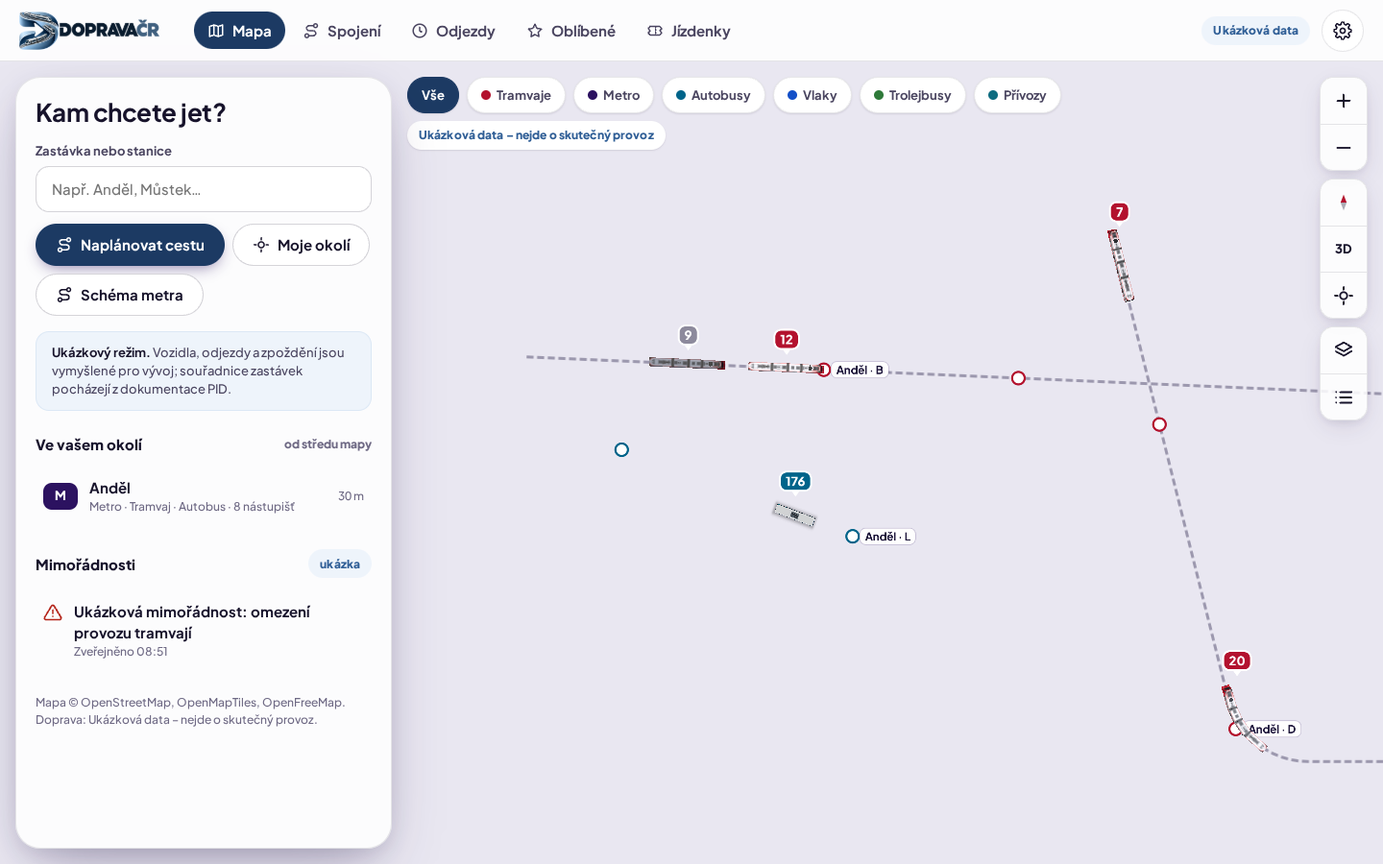
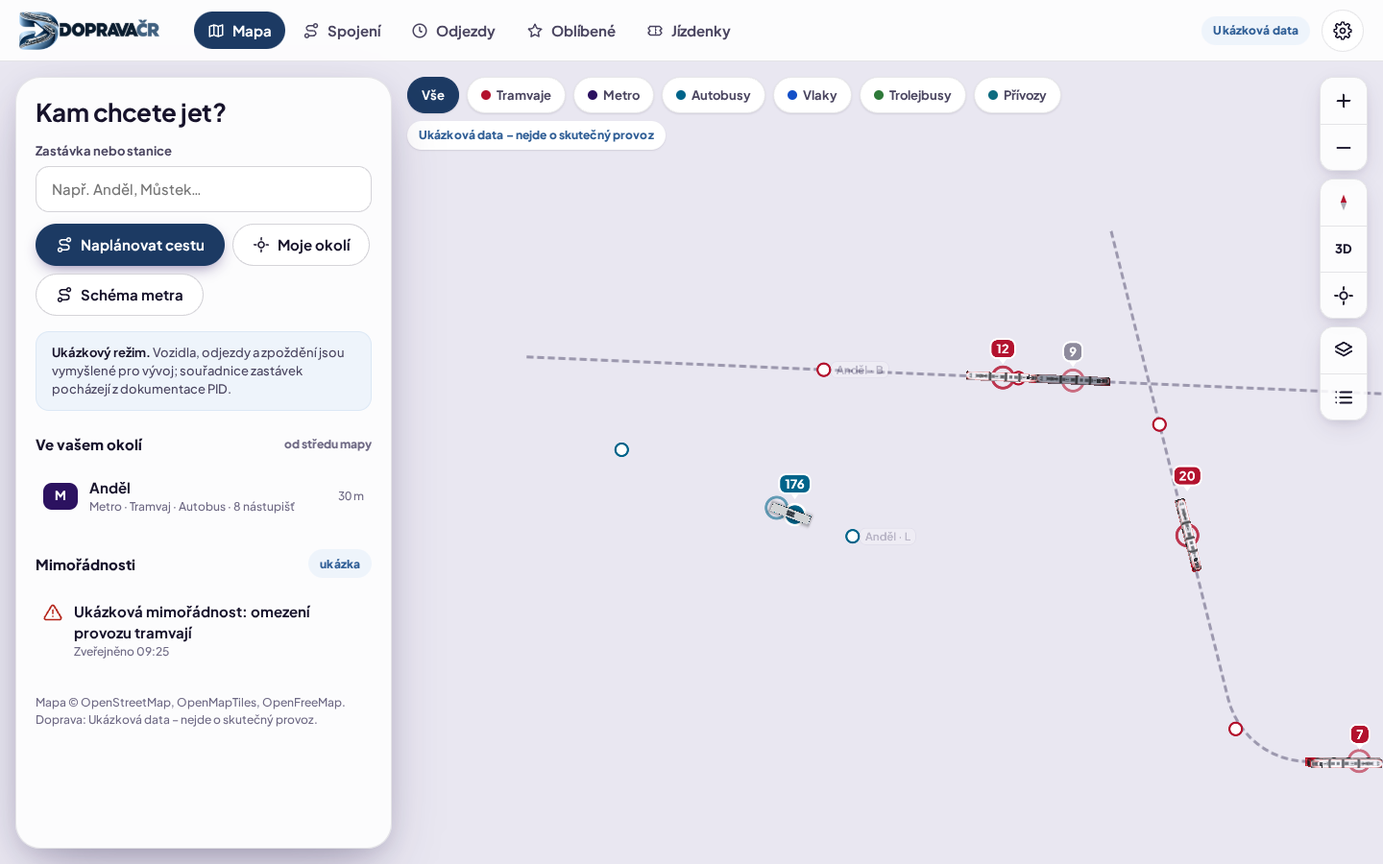
v0.7.0

diff --git a/src/map/controller.ts b/src/map/controller.ts
@@ -5,7 +5,8 @@ import { MODES, type Mode, type StopPoint, type VehicleState } from '@/domain/mo
 import { MODE_COLOR } from '@/domain/modes';
 import { metersPerPixel } from '@/domain/geo';
 import { manifest, mapAssetFor, spriteSizeStops, type VehicleAsset } from './assets';
-import { badgeImage, clusterImage, stopLabelImage } from './images';
+import { badgeImage, clusterImage, donutImage, etaImage, headingImage, pillImage, stopLabelImage } from './images';
+import { describeDelay } from '@/domain/delay';
 import { TrackFollower } from './follower';
 import { TrackNetwork, type TrackKind } from './tracks';
 import { buildExtrusions, buildPieces, DEFAULT_SHAPES, type VehicleShape } from './vehicle3d';
@@ -27,7 +28,9 @@ export interface MapEvents {
   onRender(ok: boolean): void;
 }
 
-const LIVE = 'dop-live', PIECES = 'dop-pieces', V3D = 'dop-3d', OV = 'dop-overview', STOPS = 'dop-stops', ME = 'dop-me';
+const LIVE = 'dop-live', PIECES = 'dop-pieces', V3D = 'dop-3d', OV = 'dop-overview', STOPS = 'dop-stops', ME = 'dop-me', PULSE = 'dop-pulse', TRAIL = 'dop-trail', ROUTE = 'dop-route', ROUTE_STOPS = 'dop-route-stops';
+const CLUSTER_MODES: Mode[] = ['tram', 'bus', 'metro', 'trolleybus', 'train', 'ferry', 'funicular', 'other'];
+const DASH_STEPS: number[][] = [[0, 4, 3], [0.5, 4, 2.5], [1, 4, 2], [1.5, 4, 1.5], [2, 4, 1], [2.5, 4, 0.5], [3, 4, 0], [0, 0.5, 3, 3.5], [0, 1, 3, 3], [0, 1.5, 3, 2.5], [0, 2, 3, 2], [0, 2.5, 3, 1.5], [0, 3, 3, 1], [0, 3.5, 3, 0.5]];
 const SPRITE_ZOOM = 15.5, LIVE_ZOOM = 12.5, MODEL_ZOOM = 15, PITCH_3D = 20, DETAIL_3D_MAX = 90;
 const EMPTY: FeatureCollection = { type: 'FeatureCollection', features: [] };
 export const FALLBACK_STYLE_URL = '/map/offline-style.json';
@@ -58,6 +61,11 @@ export class MapController {
   private raf = 0;
   private lastPush = 0;
   private lastLiveData = 0;
+  private pulsesShown = false;
+  private lastMeasured = new Map<string, string | null>();
+  private pulses = new Map<string, number>();
+  private history = new Map<string, { t: number; lng: number; lat: number }[]>();
+  private route: { id: string; timer: ReturnType<typeof setInterval> | null; step: number; lastStep: number; hasData: boolean } | null = null;
   private warnedFrame = false;
   private liveDirty = true;
   private last3d = 0;
@@ -158,8 +166,9 @@ export class MapController {
 
   private addLayers() {
     const m = this.map;
-    for (const [id, cluster] of [[STOPS, false], [OV, true], [LIVE, false], [PIECES, false], [V3D, false], [ME, false]] as const) {
-      if (!m.getSource(id)) m.addSource(id, cluster ? { type: 'geojson', data: EMPTY, cluster: true, clusterMaxZoom: 12, clusterRadius: 46 } : { type: 'geojson', data: EMPTY });
+    for (const [id, cluster] of [[STOPS, false], [OV, true], [LIVE, false], [PIECES, false], [V3D, false], [ME, false], [PULSE, false], [TRAIL, false], [ROUTE, false], [ROUTE_STOPS, false]] as const) {
+      if (!m.getSource(id)) m.addSource(id, cluster ? { type: 'geojson', data: EMPTY, cluster: true, clusterMaxZoom: 12, clusterRadius: 52,
+        clusterProperties: Object.fromEntries(CLUSTER_MODES.map((md) => [md, ['+', ['case', ['==', ['get', 'mode'], md], 1, 0]]])) } : { type: 'geojson', data: EMPTY });
     }
     const layers: LayerSpecification[] = [
       { id: 'dop-stops-dot', type: 'circle', source: STOPS, minzoom: 14.5, layout: { visibility: this.settings.showStops ? 'visible' : 'none' },
@@ -169,11 +178,21 @@ export class MapController {
       { id: 'dop-me', type: 'circle', source: ME, paint: { 'circle-radius': 7, 'circle-color': '#2F7BFF', 'circle-stroke-color': '#FFFFFF', 'circle-stroke-width': 3 } },
       { id: 'dop-ov-dot', type: 'circle', source: OV, maxzoom: LIVE_ZOOM, filter: ['!', ['has', 'point_count']],
         paint: { 'circle-radius': ['interpolate', ['linear'], ['zoom'], 8, 2.5, 12.5, 5], 'circle-color': modeColor, 'circle-stroke-color': '#FFFFFF', 'circle-stroke-width': 1.2, 'circle-opacity': freshOpacity, 'circle-stroke-opacity': freshOpacity } },
-      { id: 'dop-ov-cluster', type: 'symbol', source: OV, maxzoom: LIVE_ZOOM, filter: ['has', 'point_count'], layout: { 'icon-image': ['concat', 'c|', ['to-string', ['get', 'point_count']]], 'icon-allow-overlap': true } },
+      { id: 'dop-ov-cluster', type: 'symbol', source: OV, maxzoom: LIVE_ZOOM, filter: ['has', 'point_count'], layout: { 'icon-image': ['concat', 'd', ...CLUSTER_MODES.flatMap((md) => ['|', ['to-string', ['get', md]]])] as unknown as ExpressionSpecification, 'icon-allow-overlap': true } },
       { id: 'dop-halo', type: 'circle', source: LIVE, minzoom: LIVE_ZOOM, filter: ['==', ['get', 'id'], ''],
         paint: { 'circle-radius': ['interpolate', ['exponential', 2], ['zoom'], 12.5, 14, 16, 26, 19, 110, 21, 380], 'circle-color': '#2F6FB5', 'circle-opacity': 0.14, 'circle-stroke-color': '#2F6FB5', 'circle-stroke-width': 2, 'circle-stroke-opacity': 0.55, 'circle-pitch-alignment': 'map' } },
-      { id: 'dop-dot', type: 'circle', source: LIVE, minzoom: LIVE_ZOOM, maxzoom: SPRITE_ZOOM,
-        paint: { 'circle-radius': ['interpolate', ['linear'], ['zoom'], 12.5, 5, 15.5, 7.5], 'circle-color': modeColor, 'circle-stroke-color': '#FFFFFF', 'circle-stroke-width': 1.6, 'circle-opacity': freshOpacity, 'circle-stroke-opacity': freshOpacity } },
+      { id: ROUTE, type: 'line', source: ROUTE, layout: { 'line-cap': 'round', 'line-join': 'round' }, paint: { 'line-color': ['get', 'color'], 'line-width': ['interpolate', ['linear'], ['zoom'], 12, 5, 17, 10], 'line-opacity': 0.28 } },
+      { id: 'dop-route-flow', type: 'line', source: ROUTE, layout: { 'line-cap': 'butt', 'line-join': 'round' }, paint: { 'line-color': ['get', 'color'], 'line-width': ['interpolate', ['linear'], ['zoom'], 12, 2.5, 17, 4], 'line-opacity': 0.9, 'line-dasharray': [0, 4, 3] } },
+      { id: 'dop-trail', type: 'line', source: TRAIL, minzoom: 14.6, layout: { 'line-cap': 'round' }, paint: { 'line-color': ['get', 'color'], 'line-opacity': ['get', 'a'], 'line-width': ['get', 'w'] } },
+      { id: 'dop-pulse', type: 'circle', source: PULSE, minzoom: LIVE_ZOOM, paint: { 'circle-radius': ['get', 'r'], 'circle-color': 'rgba(0,0,0,0)', 'circle-stroke-color': ['get', 'color'], 'circle-stroke-width': ['get', 'sw'], 'circle-stroke-opacity': ['get', 'a'], 'circle-pitch-alignment': 'map' } },
+      { id: 'dop-dir', type: 'symbol', source: LIVE, minzoom: LIVE_ZOOM, maxzoom: SPRITE_ZOOM, filter: ['has', 'brg'],
+        layout: { 'icon-image': ['concat', 'h|', ['get', 'mode']], 'icon-size': ['interpolate', ['linear'], ['zoom'], 12.5, 0.7, 15.5, 0.9], 'icon-rotate': ['get', 'brg'], 'icon-rotation-alignment': 'map', 'icon-pitch-alignment': 'map', 'icon-allow-overlap': true, 'icon-ignore-placement': true },
+        paint: { 'icon-opacity': freshOpacity } },
+      { id: 'dop-dot', type: 'symbol', source: LIVE, minzoom: LIVE_ZOOM, maxzoom: SPRITE_ZOOM,
+        layout: { 'icon-image': ['get', 'pill'], 'icon-size': ['interpolate', ['linear'], ['zoom'], 12.5, 0.72, 14, 0.9, 15.5, 1], 'icon-allow-overlap': true, 'icon-ignore-placement': true,
+          'icon-rotation-alignment': 'viewport', 'icon-pitch-alignment': 'viewport', 'symbol-sort-key': ['get', 'sort'] },
+        paint: { 'icon-opacity': freshOpacity } },
+      { id: ROUTE_STOPS, type: 'symbol', source: ROUTE_STOPS, minzoom: 13.5, layout: { 'icon-image': ['get', 'chip'], 'icon-size': 1, 'icon-anchor': 'left', 'icon-offset': [14, 0], 'icon-allow-overlap': true, 'icon-ignore-placement': true } },
       { id: 'dop-marker', type: 'circle', source: LIVE, minzoom: SPRITE_ZOOM, filter: ['==', ['get', 'sprite'], false],
         paint: { 'circle-radius': ['interpolate', ['linear'], ['zoom'], 15.5, 8, 19, 12], 'circle-color': modeColor, 'circle-stroke-color': '#FFFFFF', 'circle-stroke-width': 2.5, 'circle-opacity': freshOpacity, 'circle-pitch-alignment': 'map' } },
       { id: 'dop-pieces', type: 'symbol', source: PIECES, minzoom: SPRITE_ZOOM,
@@ -182,7 +201,7 @@ export class MapController {
         paint: { 'icon-opacity': freshOpacity } },
       { id: 'dop-3d', type: 'fill-extrusion', source: V3D, minzoom: MODEL_ZOOM, layout: { visibility: 'none' },
         paint: { 'fill-extrusion-color': ['get', 'color'], 'fill-extrusion-base': ['get', 'base'], 'fill-extrusion-height': ['get', 'height'], 'fill-extrusion-opacity': 1, 'fill-extrusion-vertical-gradient': true } },
-      { id: 'dop-badge', type: 'symbol', source: LIVE, minzoom: 13.5,
+      { id: 'dop-badge', type: 'symbol', source: LIVE, minzoom: SPRITE_ZOOM,
         layout: { 'icon-image': ['get', 'badge'], 'icon-anchor': 'bottom', 'icon-offset': ['get', 'off'], 'icon-allow-overlap': true, 'icon-ignore-placement': true,
           'icon-rotation-alignment': 'viewport', 'icon-pitch-alignment': 'viewport', 'symbol-sort-key': ['get', 'sort'] } },
     ];
@@ -195,6 +214,10 @@ export class MapController {
     try {
       const [kind, a, b, c] = id.split('|');
       if (kind === 'b' && a && b !== undefined) this.map.addImage(id, badgeImage(b, a as Mode, (c as 'live' | 'stale' | 'selected') ?? 'live'), { pixelRatio: 2 });
+      else if (kind === 'p' && a && b !== undefined) { const [, , , tone, st] = id.split('|'); this.map.addImage(id, pillImage(b, a as Mode, tone ?? 'unknown', (st as 'live' | 'stale' | 'selected') ?? 'live'), { pixelRatio: 2 }); }
+      else if (kind === 'h' && a) this.map.addImage(id, headingImage(a as Mode), { pixelRatio: 1 });
+      else if (kind === 'd') { const parts = id.split('|').slice(1).map(Number); this.map.addImage(id, donutImage(Object.fromEntries(CLUSTER_MODES.map((md, i) => [md, parts[i] ?? 0]))), { pixelRatio: 2 }); }
+      else if (kind === 'e' && a) { const [, name, eta, color] = id.split('|'); this.map.addImage(id, etaImage(name ?? '', eta ?? '', color ?? '#2F6FB5'), { pixelRatio: 2 }); }
       else if (kind === 'c' && a) this.map.addImage(id, clusterImage(Number(a)), { pixelRatio: 2 });
       else if (kind === 's' && a) this.map.addImage(id, stopLabelImage(a, b || null), { pixelRatio: 2 });
     } catch { /* obrázek se nepodařilo vytvořit – vrstva zůstane bez štítku */ }
@@ -301,6 +324,13 @@ export class MapController {
   /** Nová dávka dat ze serveru: oddělená od animace, React se nepřekresluje. */
   ingest(list: VehicleState[], receivedAt: number) {
     this.vehicles = new Map(list.map((v) => [v.id, v])); this.liveDirty = true;
+    const nowP = Date.now();
+    for (const v of list) {
+      const prev = this.lastMeasured.get(v.id);
+      if (prev !== undefined && prev !== v.measuredAt) this.pulses.set(v.id, nowP);
+      this.lastMeasured.set(v.id, v.measuredAt);
+    }
+    if (this.lastMeasured.size > list.length * 2 + 200) { const keep = new Set<string>(list.map((v) => v.id)); for (const k of [...this.lastMeasured.keys()]) if (!keep.has(k)) { this.lastMeasured.delete(k); this.history.delete(k); } }
     this.follower.update(list, receivedAt, Date.now(), this.getNet);
     if (this.selectedId && !this.vehicles.has(this.selectedId)) { this.selectedId = null; this.applySelectionFilter(); this.setFollow(false); this.events.onSelect(null, 'expired'); }
     this.pushOverview();
@@ -334,7 +364,11 @@ export class MapController {
     if (!this.ready || this.destroyed) return;
     const now = Date.now();
     const z = this.map.getZoom();
-    const animating = this.follower.animator.isAnimating(now) || this.follower.isMoving(now);
+    const animating = this.follower.animator.isAnimating(now) || this.follower.isMoving(now) || this.pulses.size > 0 || this.route?.hasData === true;
+    if (this.route?.hasData && now - this.route.lastStep > 70 && this.map.getLayer('dop-route-flow')) {
+      this.route.step = (this.route.step + 1) % DASH_STEPS.length; this.route.lastStep = now;
+      this.map.setPaintProperty('dop-route-flow', 'line-dasharray', DASH_STEPS[this.route.step]);
+    }
     const minGap = this.settings.reducedMotion ? 1000 : 33;
     if (z >= LIVE_ZOOM - 0.3 && now - this.lastPush >= minGap) { this.pushLive(now); this.lastPush = now; }
     const following = this.follow && this.selectedId ? this.followStep(now) : false;
@@ -351,6 +385,7 @@ export class MapController {
     const style = this.settings.vehicleStyle;
     const want3d = style === 'sprites' && this.pitchedMode && zoom >= MODEL_ZOOM && now - this.last3d >= (this.settings.reducedMotion ? 1000 : 90);
     const models: ModelVehicle[] = [];
+    const trails: Feature[] = [], pulses: Feature[] = [];
     const arts: ArticulatedVehicle[] = [];
     const center = this.map.getCenter();
     const live: Feature[] = [], pieces: Feature[] = [], solids: Feature[] = [];
@@ -396,15 +431,35 @@ export class MapController {
         off = (Math.abs(Math.cos(th)) * lenPx * pitchK + Math.abs(Math.sin(th)) * widPx) / 2 + 7 + (model || this.pitchedMode ? ((H / mpp) * f) * Math.sin(pitch * D2R) : 0);
         off = Math.min(off, 320);
       }
+      const hist = this.history.get(id) ?? [];
+      const lastH = hist[hist.length - 1];
+      if (!lastH || (now - lastH.t > 110 && (Math.abs(lastH.lng - mid.lng) + Math.abs(lastH.lat - mid.lat)) > 4e-6)) { hist.push({ t: now, lng: mid.lng, lat: mid.lat }); while (hist.length > 26 || (hist[0] && now - hist[0].t > 3200)) hist.shift(); this.history.set(id, hist); }
+      if (zoom >= 14.6 && hist.length > 2 && !this.settings.reducedMotion) for (let i = 1; i < hist.length; i++) {
+        const k = i / hist.length;
+        trails.push({ type: 'Feature', geometry: { type: 'LineString', coordinates: [[hist[i - 1]!.lng, hist[i - 1]!.lat], [hist[i]!.lng, hist[i]!.lat]] }, properties: { color: MODE_COLOR[v.route.mode], a: Math.round(k * 55) / 100 * (stale ? 0.4 : 1), w: 1 + k * 5 } });
+      }
+      const pt = this.pulses.get(id);
+      if (pt !== undefined && !this.settings.reducedMotion) {
+        const k = (now - pt) / 1400;
+        if (k >= 1) this.pulses.delete(id);
+        else pulses.push({ type: 'Feature', geometry: { type: 'Point', coordinates: [mid.lng, mid.lat] }, properties: { r: 9 + k * 26, a: Math.round((1 - k) * 60) / 100, sw: 2.5 * (1 - k) + 0.5, color: MODE_COLOR[v.route.mode] } });
+      }
       live.push({ type: 'Feature', geometry: { type: 'Point', coordinates: [mid.lng, mid.lat] }, properties: {
         id, mode: v.route.mode, sprite: sprite || model, has3d: style === 'sprites' && HAS_3D.has(v.route.mode) && hasBody, fresh: stale ? 'stale' : 'live',
         badge: `b|${v.route.mode}|${safe(v.route.shortName)}|${state}`, sort: sel ? 1000 : stale ? 1 : 10, off: [0, -Math.round(off)],
+        pill: `p|${v.route.mode}|${safe(v.route.shortName)}|${stale ? 'unknown' : describeDelay(v.delay).tone === 'late' && v.delay.kind === 'known' && v.delay.seconds < 180 ? 'warn' : describeDelay(v.delay).tone}|${state}`,
+        ...(s.bearing !== null ? { brg: Math.round(s.bearing) } : {}),
       } });
       if (sprite && asset && !this.pitchedMode && zoom >= SPRITE_ZOOM) pieces.push(...buildPieces(s.body, shape, asset.id, { fresh: stale ? 'stale' : 'live', sort: sel ? 1000 : 10 }));
       if (want3d && hasBody && HAS_3D.has(v.route.mode)) solids.push(...buildExtrusions(s.body, shape));
     } catch (e) { if (!this.warnedFrame) { this.warnedFrame = true; console.warn('Vozidlo nelze vykreslit', id, e); } } });
     // štítky a body: nejvýš 10× za sekundu (3D modely se posouvají v každém snímku) – méně práce pro mapu
-    if (now - this.lastLiveData >= 100 || this.liveDirty) { (this.map.getSource(LIVE) as GeoJSONSource | undefined)?.setData({ type: 'FeatureCollection', features: live }); this.lastLiveData = now; this.liveDirty = false; }
+    if (now - this.lastLiveData >= 100 || this.liveDirty) {
+      (this.map.getSource(LIVE) as GeoJSONSource | undefined)?.setData({ type: 'FeatureCollection', features: live });
+      (this.map.getSource(TRAIL) as GeoJSONSource | undefined)?.setData({ type: 'FeatureCollection', features: trails });
+      this.lastLiveData = now; this.liveDirty = false;
+    }
+    if (pulses.length || this.pulsesShown) { (this.map.getSource(PULSE) as GeoJSONSource | undefined)?.setData({ type: 'FeatureCollection', features: pulses }); this.pulsesShown = pulses.length > 0; }
     this.modelLayer.setVehicles(style === 'models' ? models : []);
     this.artLayer.setVehicles(style === 'models' ? arts : []);
     if (!this.pitchedMode || zoom < SPRITE_ZOOM) (this.map.getSource(PIECES) as GeoJSONSource | undefined)?.setData({ type: 'FeatureCollection', features: pieces });
@@ -460,7 +515,45 @@ export class MapController {
     if (this.map.getLayer('dop-halo')) this.map.setFilter('dop-halo', ['==', ['get', 'id'], this.selectedId ?? ''] as FilterSpecification);
   }
 
+  /** Trasa vybraného vozu s tekoucí čárou a odpočty do dalších zastávek (z průběhu spoje, obnova po 30 s). */
+  private async loadRoute(id: string) {
+    try {
+      const res = await fetch(`/api/trip?vehicle=${encodeURIComponent(id)}`);
+      const body = res.ok ? (await res.json()) as { data: { mode: Mode; lastStopSeq: number | null; delay: { kind: string; seconds?: number }; stops: { seq: number; name: string; lat: number; lon: number; arrival: string | null; arrivalRt: string | null }[]; shape: [number, number][] } | null } : null;
+      if (!this.route || this.route.id !== id || !body?.data) return;
+      const d = body.data, color = MODE_COLOR[d.mode];
+      const coords = d.shape.length >= 2 ? d.shape : d.stops.map((st) => [st.lon, st.lat] as [number, number]);
+      (this.map.getSource(ROUTE) as GeoJSONSource | undefined)?.setData({ type: 'FeatureCollection', features: [{ type: 'Feature', geometry: { type: 'LineString', coordinates: coords }, properties: { color } }] });
+      const now = Date.now(), delay = d.delay.kind === 'known' ? (d.delay.seconds ?? 0) * 1000 : 0;
+      const when = (raw: string | null, rt: boolean): number | null => {
+        if (!raw) return null;
+        if (/^\d{1,2}:\d{2}(:\d{2})?$/.test(raw)) { const [h, m, sec] = raw.split(':').map(Number); const t = new Date(); t.setHours(h ?? 0, m ?? 0, sec ?? 0, 0); return t.getTime() + (rt ? 0 : delay); }
+        const t = Date.parse(raw); return Number.isFinite(t) ? t + (rt ? 0 : delay) : null;
+      };
+      const chips = d.stops.filter((st) => d.lastStopSeq === null || st.seq > d.lastStopSeq).slice(0, 8).flatMap((st) => {
+        const t = when(st.arrivalRt, true) ?? when(st.arrival, false);
+        if (t === null) return [];
+        const min = Math.round((t - now) / 60_000);
+        const eta = min <= 0 ? '< 1 min' : `${min} min`;
+        return [{ type: 'Feature' as const, geometry: { type: 'Point' as const, coordinates: [st.lon, st.lat] }, properties: { chip: `e|${st.name.replace(/\|/g, '/')}|${eta}|${color}` } }];
+      });
+      (this.map.getSource(ROUTE_STOPS) as GeoJSONSource | undefined)?.setData({ type: 'FeatureCollection', features: chips });
+      this.route.hasData = true;
+      this.kick();
+    } catch { /* průběh spoje je doplněk – bez něj výběr funguje dál */ }
+  }
+
+  private clearRoute() {
+    if (this.route?.timer) clearInterval(this.route.timer);
+    this.route = null;
+    for (const src of [ROUTE, ROUTE_STOPS]) (this.map.getSource(src) as GeoJSONSource | undefined)?.setData(EMPTY);
+  }
+
   select(id: string | null, opts: { fly?: boolean; follow?: boolean } = {}) {
+    if (this.route?.id !== id) {
+      this.clearRoute();
+      if (id && this.ready) { this.route = { id, timer: setInterval(() => void this.loadRoute(id), 30_000), step: 0, lastStep: 0, hasData: false }; void this.loadRoute(id); }
+    }
     this.selectedId = id;
     this.liveDirty = true;
     this.applySelectionFilter();
@@ -673,6 +766,7 @@ export class MapController {
 
   destroy() {
     this.destroyed = true;
+    if (this.route?.timer) clearInterval(this.route.timer);
     if (this.raf) cancelAnimationFrame(this.raf);
     if (this.stopsTimer) clearTimeout(this.stopsTimer);
     if (this.loadTimer) clearTimeout(this.loadTimer);

diff --git a/src/map/images.ts b/src/map/images.ts
@@ -58,3 +58,63 @@ export function stopLabelImage(name: string, platform: string | null): RasterIma
   ctx.fillStyle = '#1A1238'; ctx.font = `700 ${fontPx}px ${FONT}`; ctx.textBaseline = 'middle'; ctx.fillText(text, padX, h / 2 + s);
   return read(ctx, w, h);
 }
+
+/** Barva kroužku zpoždění: včas zelená, mírné oranžová, velké červená, neznámé šedá. */
+export const TONE_COLOR: Record<string, string> = { ok: '#2F9E58', early: '#2F6FB5', warn: '#E3A21A', late: '#D33A2C', unknown: '#9A98A6' };
+
+/** Pilulka s číslem linky a kroužkem zpoždění (od přiblížení 12,5 místo teček). */
+export function pillImage(line: string, mode: Mode, tone: string, state: 'live' | 'stale' | 'selected'): RasterImage {
+  const s = 2, fontPx = 12.5 * s, h = 22 * s, ring = 3 * s, pad = 8 * s;
+  const { ctx: m } = canvas(4, 4);
+  m.font = `800 ${fontPx}px ${FONT}`;
+  const tw = Math.ceil(m.measureText(line).width);
+  const w = Math.max(h, tw + pad * 2), W = w + ring * 2 + 2 * s, H = h + ring * 2 + 2 * s;
+  const { ctx } = canvas(W, H);
+  roundRect(ctx, s, s, W - 2 * s, H - 2 * s, (H - 2 * s) / 2);
+  ctx.fillStyle = state === 'stale' ? '#B9B7C4' : TONE_COLOR[tone] ?? TONE_COLOR.unknown!; ctx.fill();
+  roundRect(ctx, s + ring, s + ring, w, h, h / 2);
+  ctx.fillStyle = state === 'stale' ? '#8D8A9C' : MODE_COLOR[mode]; ctx.fill();
+  ctx.lineWidth = 1.6 * s; ctx.strokeStyle = state === 'selected' ? '#0F2341' : '#FFFFFF'; ctx.stroke();
+  ctx.fillStyle = '#FFFFFF'; ctx.font = `800 ${fontPx}px ${FONT}`; ctx.textAlign = 'center'; ctx.textBaseline = 'middle';
+  ctx.fillText(line, W / 2, H / 2 + 0.8 * s);
+  return read(ctx, W, H);
+}
+
+/** Klín směru jízdy (otáčí se podle kurzu, pilulka zůstává vodorovně). Čtverec 64 px, klín nahoře. */
+export function headingImage(mode: Mode): RasterImage {
+  const d = 64;
+  const { ctx } = canvas(d, d);
+  ctx.beginPath(); ctx.moveTo(d / 2, 1); ctx.lineTo(d / 2 + 9, 15); ctx.lineTo(d / 2 - 9, 15); ctx.closePath();
+  ctx.fillStyle = MODE_COLOR[mode]; ctx.fill(); ctx.lineWidth = 2; ctx.strokeStyle = '#FFFFFF'; ctx.stroke();
+  return read(ctx, d, d);
+}
+
+/** Shluk při oddálení: prstenec rozdělený podle druhů dopravy a počet uprostřed. */
+export function donutImage(counts: Partial<Record<Mode, number>>): RasterImage {
+  const total = Object.values(counts).reduce((a, b) => a + (b ?? 0), 0);
+  const s = 2, d = (total >= 100 ? 50 : total >= 10 ? 44 : 38) * s, r = d / 2 - 5 * s;
+  const { ctx } = canvas(d, d);
+  ctx.beginPath(); ctx.arc(d / 2, d / 2, d / 2 - 1 * s, 0, Math.PI * 2); ctx.fillStyle = '#FFFFFF'; ctx.fill();
+  let a0 = -Math.PI / 2;
+  const entries = Object.entries(counts).filter(([, n]) => (n ?? 0) > 0) as [Mode, number][];
+  for (const [mode, n] of entries) {
+    const a1 = a0 + (n / Math.max(1, total)) * Math.PI * 2;
+    ctx.beginPath(); ctx.arc(d / 2, d / 2, r, a0 + (entries.length > 1 ? 0.07 : 0), a1 - (entries.length > 1 ? 0.07 : 0));
+    ctx.strokeStyle = MODE_COLOR[mode]; ctx.lineWidth = 5 * s; ctx.lineCap = 'round'; ctx.stroke(); a0 = a1;
+  }
+  ctx.fillStyle = '#0F2341'; ctx.font = `800 ${(total >= 100 ? 13 : 14) * s}px ${FONT}`; ctx.textAlign = 'center'; ctx.textBaseline = 'middle';
+  ctx.fillText(total > 999 ? '999+' : String(total), d / 2, d / 2 + s);
+  return read(ctx, d, d);
+}
+
+/** Štítek zastávky na trase sledovaného vozu: název a odpočet. */
+export function etaImage(name: string, eta: string, color: string): RasterImage {
+  const s = 2, fontPx = 11.5 * s, h = 22 * s, pad = 8 * s;
+  const { ctx: m } = canvas(4, 4);
+  m.font = `700 ${fontPx}px ${FONT}`;
+  const text = `${name} · ${eta}`, tw = Math.ceil(m.measureText(text).width), w = tw + pad * 2;
+  const { ctx } = canvas(w + 2 * s, h + 2 * s);
+  roundRect(ctx, s, s, w, h, h / 2); ctx.fillStyle = '#FFFFFF'; ctx.fill(); ctx.lineWidth = 1.6 * s; ctx.strokeStyle = color; ctx.stroke();
+  ctx.fillStyle = '#0F2341'; ctx.font = `700 ${fontPx}px ${FONT}`; ctx.textBaseline = 'middle'; ctx.fillText(text, s + pad, s + h / 2 + 0.6 * s);
+  return read(ctx, w + 2 * s, h + 2 * s);
+}

diff --git a/tests/e2e/markers.spec.ts b/tests/e2e/markers.spec.ts
@@ -1,0 +1,19 @@
+import { expect, test } from '@playwright/test';
+type W = { __doprava?: { map: { jumpTo(o: Record<string, unknown>): void; queryRenderedFeatures(o: Record<string, unknown>): { properties: Record<string, unknown> }[]; getSource(id: string): { serialize?: () => { data: { features: unknown[] } } } | undefined };
+  controller: { vehicles: Map<string, unknown>; select(id: string, o: Record<string, boolean>): void } } };
+
+test('nové značky: pilulky s linkou a zpožděním, shluky podle druhu, trasa vybraného vozu', async ({ page }) => {
+  await page.setViewportSize({ width: 1280, height: 800 });
+  await page.goto('/');
+  await page.waitForFunction(() => ((window as unknown as W).__doprava?.controller.vehicles.size ?? 0) >= 3, null, { timeout: 45_000 });
+  await page.evaluate(() => (window as unknown as W).__doprava!.map.jumpTo({ center: [14.4045, 50.0712], zoom: 14.6, pitch: 0, bearing: 0 }));
+  await expect.poll(async () => page.evaluate(() => (window as unknown as W).__doprava!.map.queryRenderedFeatures({ layers: ['dop-dot'] }).filter((f) => String(f.properties.pill).startsWith('p|')).length), { timeout: 15_000 }).toBeGreaterThan(0);
+  await page.screenshot({ path: '/tmp/look-pills.png' });
+  await page.evaluate(() => (window as unknown as W).__doprava!.map.jumpTo({ zoom: 11.2 }));
+  await expect.poll(async () => page.evaluate(() => (window as unknown as W).__doprava!.map.queryRenderedFeatures({ layers: ['dop-ov-cluster', 'dop-ov-dot'] }).length), { timeout: 15_000 }).toBeGreaterThan(0);
+  await page.screenshot({ path: '/tmp/look-clusters.png' });
+  await page.evaluate(() => { const d = (window as unknown as W).__doprava!; d.map.jumpTo({ center: [14.4045, 50.0712], zoom: 15 }); d.controller.select('demo:vehicle:9350', { fly: false }); });
+  await expect.poll(async () => page.evaluate(() => (window as unknown as W).__doprava!.map.queryRenderedFeatures({ layers: ['dop-route', 'dop-route-stops'] }).length), { timeout: 15_000 }).toBeGreaterThan(0);
+  await page.waitForTimeout(1500);
+  await page.screenshot({ path: '/tmp/look-route.png' });
+});

diff --git a/tests/e2e/models.spec.ts b/tests/e2e/models.spec.ts
@@ -54,7 +54,8 @@ test('3D karoserie: vykreslení a výběr mimo střed ve třech natočeních map
   });
   await page.getByRole('button', { name: 'Sledovat ve 3D' }).click();
   await expect.poll(() => page.evaluate(() => (window as unknown as W).__doprava!.map.getZoom())).toBeGreaterThan(17.5);
-  await expect.poll(() => page.evaluate(() => (window as unknown as W).__doprava!.controller.raf)).toBe(0);
+  // smyčka usne, jakmile doběhne případný pulz nových dat (max. 1,4 s po každém obnovení)
+  await expect.poll(() => page.evaluate(() => (window as unknown as W).__doprava!.controller.raf), { timeout: 15_000, intervals: [250] }).toBe(0);
   expect(errors).toEqual([]);
 });
 

diff --git a/public/sw.js b/public/sw.js
@@ -1,5 +1,5 @@
 /* Doprava – service worker: offline obal aplikace a poslední data s jasně označeným stářím. */
-const VERSION = 'doprava-v6';
+const VERSION = 'doprava-v7';
 const SHELL = `${VERSION}-shell`, STATIC = `${VERSION}-static`, API = `${VERSION}-api`;
 const SHELL_URLS = ['/', '/odjezdy', '/spojeni', '/oblibene', '/jizdenky', '/nastaveni', '/map/offline-style.json', '/icons/icon-192.png', '/brand/logo.png', '/brand/logo-dark.png', '/favicon.ico'];
 const STATIC_PREFIXES = ['/_next/static/', '/vehicles/', '/icons/', '/map/', '/maplibre/'];

diff --git a/CHANGELOG.md b/CHANGELOG.md
@@ -1,5 +1,12 @@
 # Changelog
 
+## 0.7.0 – 2026-10-03
+- Nové značky vozidel místo teček (od přiblížení 12,5): pilulka s číslem linky, kroužek zpoždění (zelená včas, oranžová do 3 min, červená víc, šedá bez údaje) a klín směru jízdy.
+- Pulz při každé skutečně nové poloze vozu; stopa za vozidlem (od přiblížení 14,6) ze skutečného pohybu za poslední ~3 s.
+- Při oddálení shluky jako prstenec rozdělený podle druhu dopravy s počtem vozidel.
+- Vybraný vůz: trasa spoje s tekoucí čárou ve směru jízdy a štítky dalších zastávek s odpočtem (z průběhu spoje Golemio, obnova 30 s).
+- S omezenými animacemi se pulzy a stopy nekreslí.
+
 ## 0.6.0 – 2026-10-03
 - Živé schéma metra (/metro): stylizované linky A, B, C pro mobil, všech 61 stanic, přestupy, soupravy podle skutečných poloh (obnova 5 s, plynulý pohyb), klepnutí na stanici = odjezdy, na soupravu = mapa se sledováním.
 - Schéma linky (/linka): zastávky obou směrů pod sebou a všechny vozy linky v reálném čase; směr vozu podle souhlasu kurzu se směrem trasy; barva rámečku = zpoždění. Otevře se z detailu vozidla i klepnutím na číslo linky v odjezdech.
